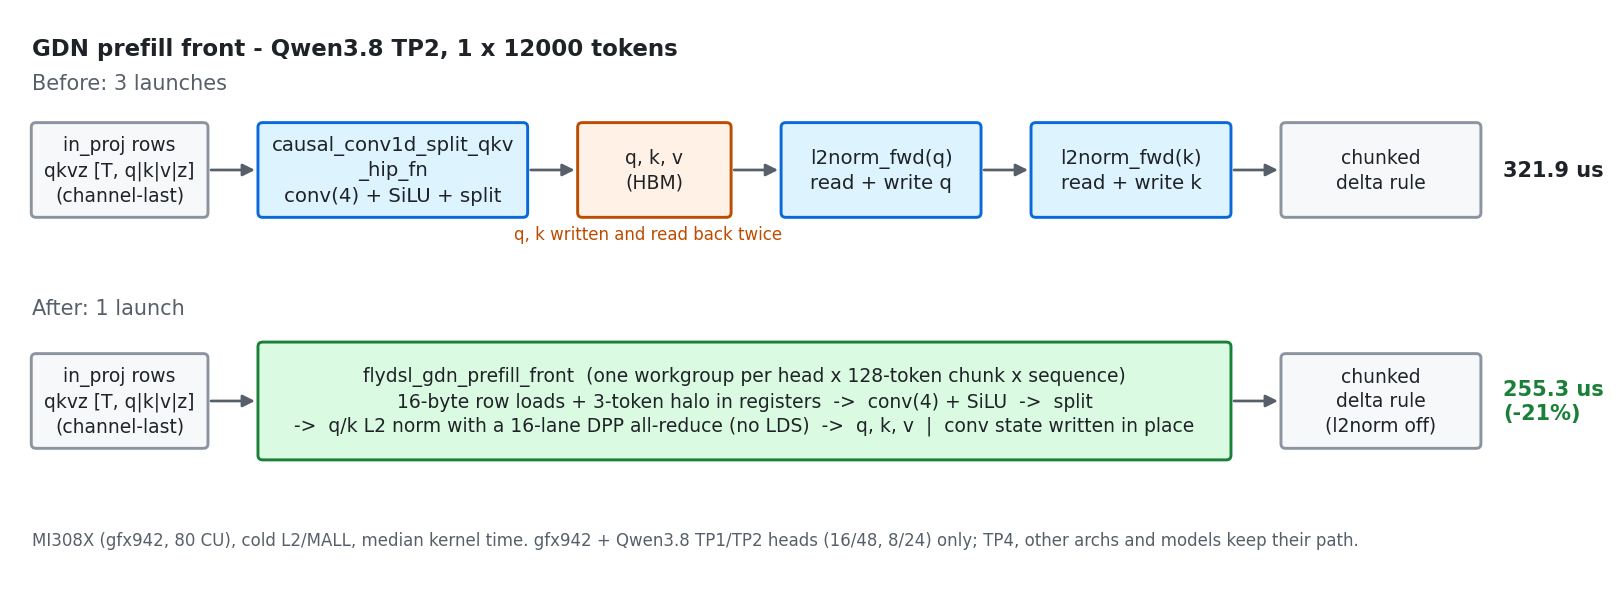
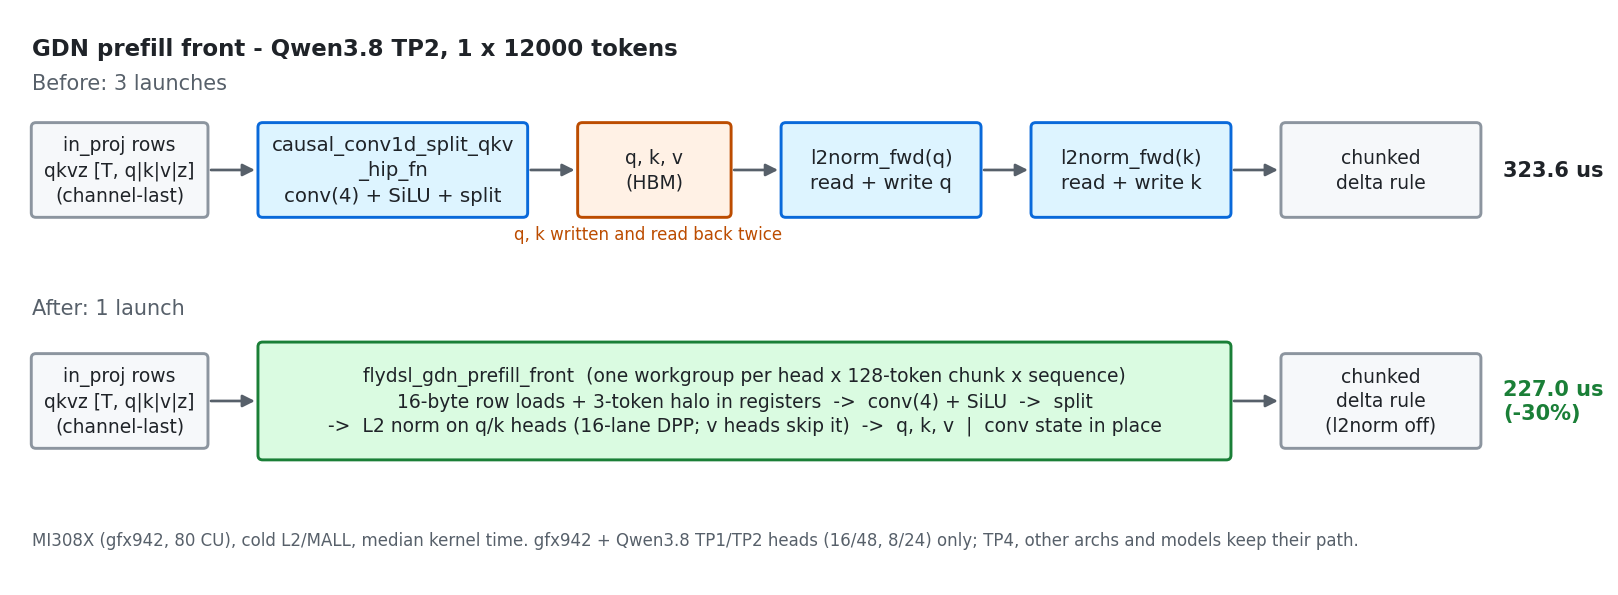
GDN gfx942 PR diagrams: PR-C numbers after the v-head norm skip

Changed region(s): [[0.1854, 0.6958, 0.7417, 0.7261], [0.9271, 0.6353, 0.9889, 0.7261], [0.9271, 0.2723, 0.9889, 0.3025]]

diff --git a/gdn-gfx942/make_diagrams.py b/gdn-gfx942/make_diagrams.py
@@ -111,7 +111,7 @@ def pr_c():
     box(ax, 21.8, 6.3, 3.4, 1.6, "chunked\ndelta rule", DATA, EDGE_D, 9)
     for x0, x1 in ((3.3, 4.2), (8.8, 9.7), (12.3, 13.2), (16.6, 17.5), (20.9, 21.8)):
         arrow(ax, x0, 7.1, x1, 7.1)
-    ax.text(25.6, 7.1, "321.9 us", ha="left", va="center", fontsize=10, color=INK, weight="bold")
+    ax.text(25.6, 7.1, "323.6 us", ha="left", va="center", fontsize=10, color=INK, weight="bold")
     ax.text(10.9, 5.9, "q, k written and read back twice", ha="center", fontsize=8, color=EDGE_H)
 
     ax.text(0.3, 4.6, "After: 1 launch", fontsize=10, color=MUTED)
@@ -119,12 +119,12 @@ def pr_c():
     box(ax, 4.2, 2.1, 16.7, 2.0,
         "flydsl_gdn_prefill_front  (one workgroup per head x 128-token chunk x sequence)\n"
         "16-byte row loads + 3-token halo in registers  ->  conv(4) + SiLU  ->  split\n"
-        "->  q/k L2 norm with a 16-lane DPP all-reduce (no LDS)  ->  q, k, v  |  conv state written in place",
+        "->  L2 norm on q/k heads (16-lane DPP; v heads skip it)  ->  q, k, v  |  conv state in place",
         FUSED, EDGE_F, 9)
     box(ax, 21.8, 2.3, 3.4, 1.6, "chunked\ndelta rule\n(l2norm off)", DATA, EDGE_D, 9)
     arrow(ax, 3.3, 3.1, 4.2, 3.1)
     arrow(ax, 20.9, 3.1, 21.8, 3.1)
-    ax.text(25.6, 3.1, "255.3 us\n(-21%)", ha="left", va="center", fontsize=10, color=EDGE_F, weight="bold")
+    ax.text(25.6, 3.1, "227.0 us\n(-30%)", ha="left", va="center", fontsize=10, color=EDGE_F, weight="bold")
     ax.text(0.3, 0.6, "MI308X (gfx942, 80 CU), cold L2/MALL, median kernel time. gfx942 + Qwen3.8 TP1/TP2 heads (16/48, 8/24) only; "
             "TP4, other archs and models keep their path.", fontsize=8, color=MUTED)
     fig.savefig(f"{OUT}/pr-c-gdn-prefill-front-fusion.png", bbox_inches="tight", facecolor="white")
